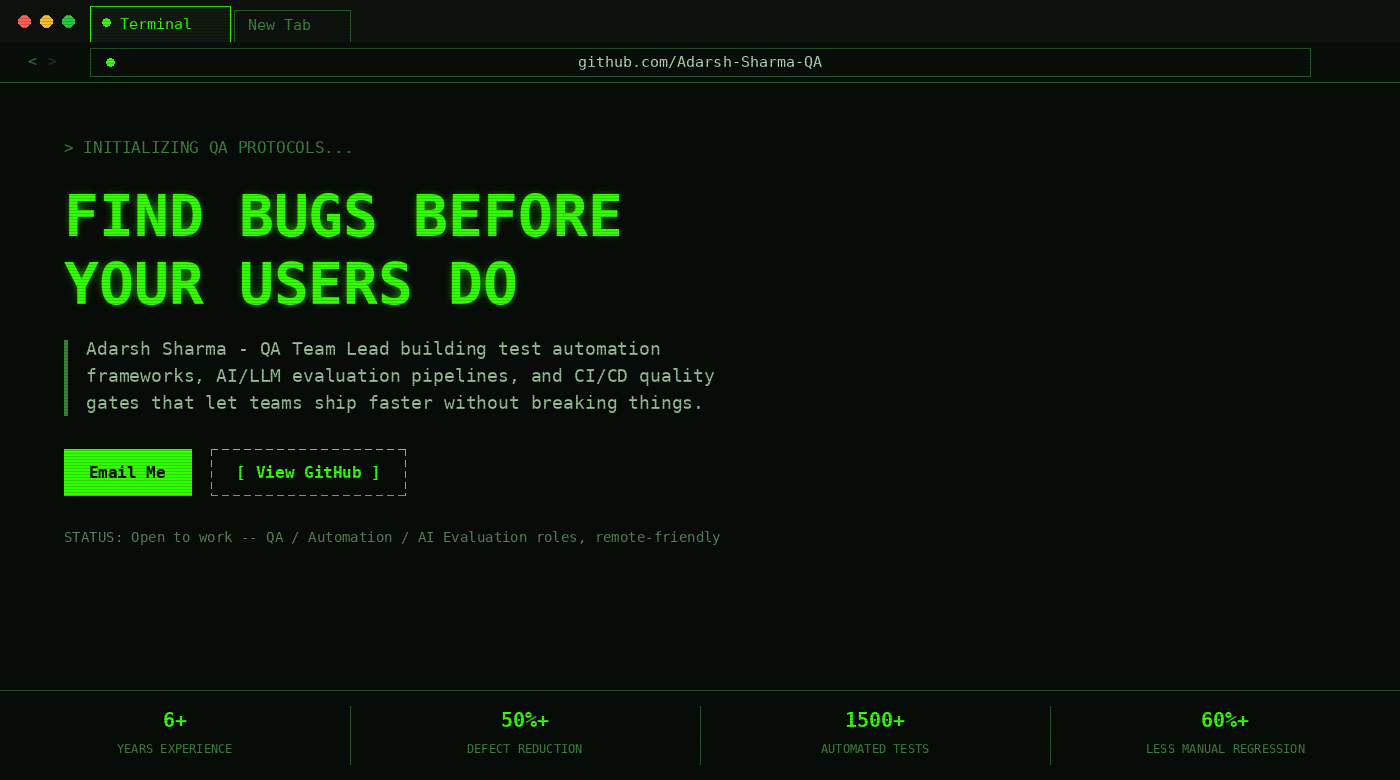
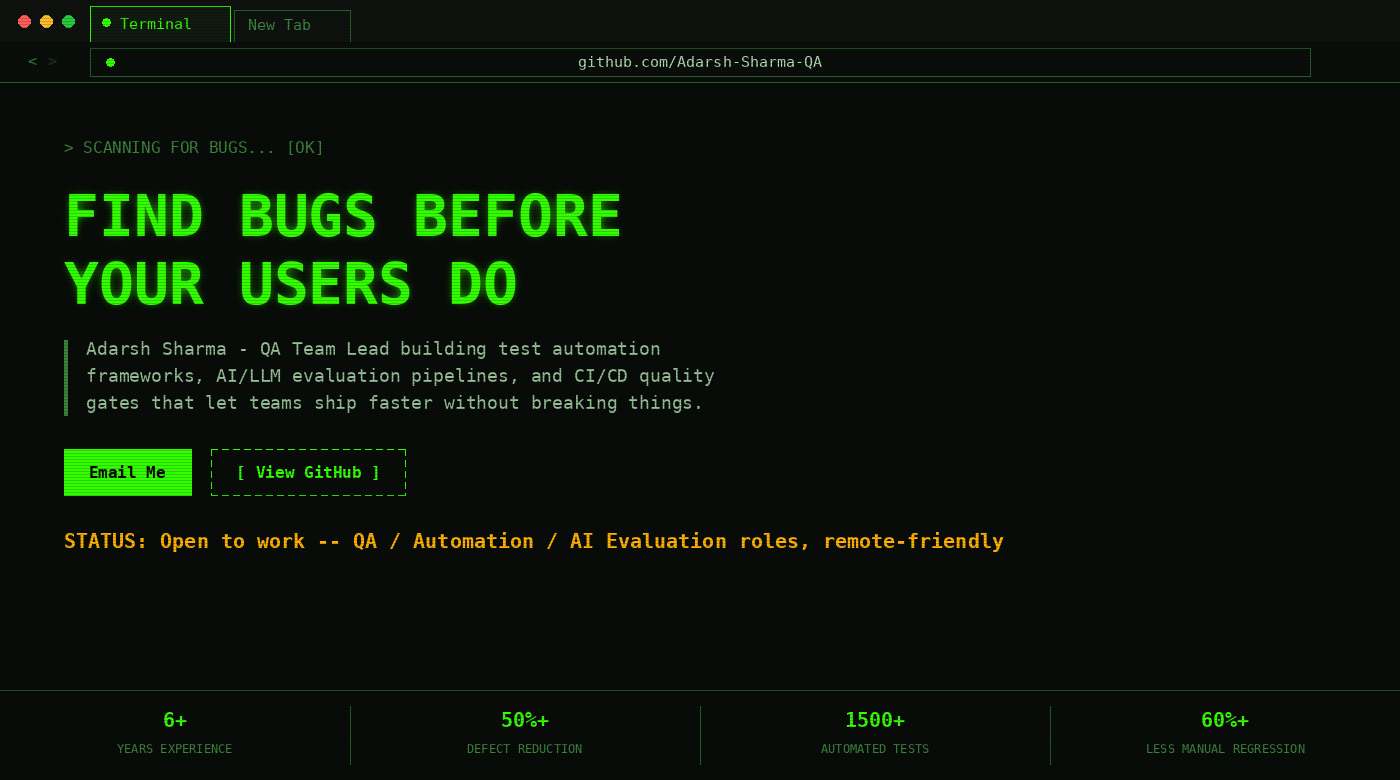
Revert hero to single static image (no typing-svg animation), keep green terminal color scheme + larger amber status text

Changed region(s): [[0.0307, 0.6769, 0.7064, 0.7077], [0.0614, 0.1846, 0.215, 0.2154]]

diff --git a/README.md b/README.md
@@ -1,4 +1,6 @@
-<div align="center"><img src="assets/hero-top.png" width="100%"/><img src="https://readme-typing-svg.demolab.com?font=Fira+Code&weight=500&size=17&duration=1600&pause=1200&color=3C823C&background=080C08&center=false&vCenter=true&width=1400&height=50&lines=%3E+INITIALIZING+QA+PROTOCOLS...;%3E+SYSTEM+READY+%5BOK%5D;%3E+SCANNING+FOR+BUGS...+%5BOK%5D" width="100%" alt="init"/><img src="https://readme-typing-svg.demolab.com?font=Fira+Code&weight=700&size=44&duration=1400&pause=1400&color=33FF00&background=080C08&center=false&vCenter=true&width=1400&height=130&lines=FIND+BUGS+BEFORE;YOUR+USERS+DO" width="100%" alt="headline"/><img src="https://readme-typing-svg.demolab.com?font=Fira+Code&weight=500&size=17&duration=2200&pause=1000&color=96BE96&background=080C08&center=false&vCenter=true&width=1400&height=50&lines=Adarsh+Sharma+-+QA+Team+Lead+building+test+automation+frameworks%2C;AI%2FLLM+evaluation+pipelines%2C+and+CI%2FCD+quality+gates%2C;that+let+teams+ship+faster+without+breaking+things." width="100%" alt="paragraph"/><img src="assets/hero-buttons.png" width="100%"/><img src="https://readme-typing-svg.demolab.com?font=Fira+Code&weight=600&size=19&duration=1800&pause=2000&color=FFB000&background=080C08&center=false&vCenter=true&width=1400&height=55&lines=STATUS%3A+Open+to+work+--+QA+%2F+Automation+%2F+AI+Evaluation+roles%2C+remote-friendly" width="100%" alt="status"/><img src="assets/hero-stats.png" width="100%"/><img src="assets/hero-bottom.png" width="100%"/></div>
+<div align="center">
+<img src="assets/terminal-hero.png" width="100%"/>
+</div>
 
 <br/>
 
